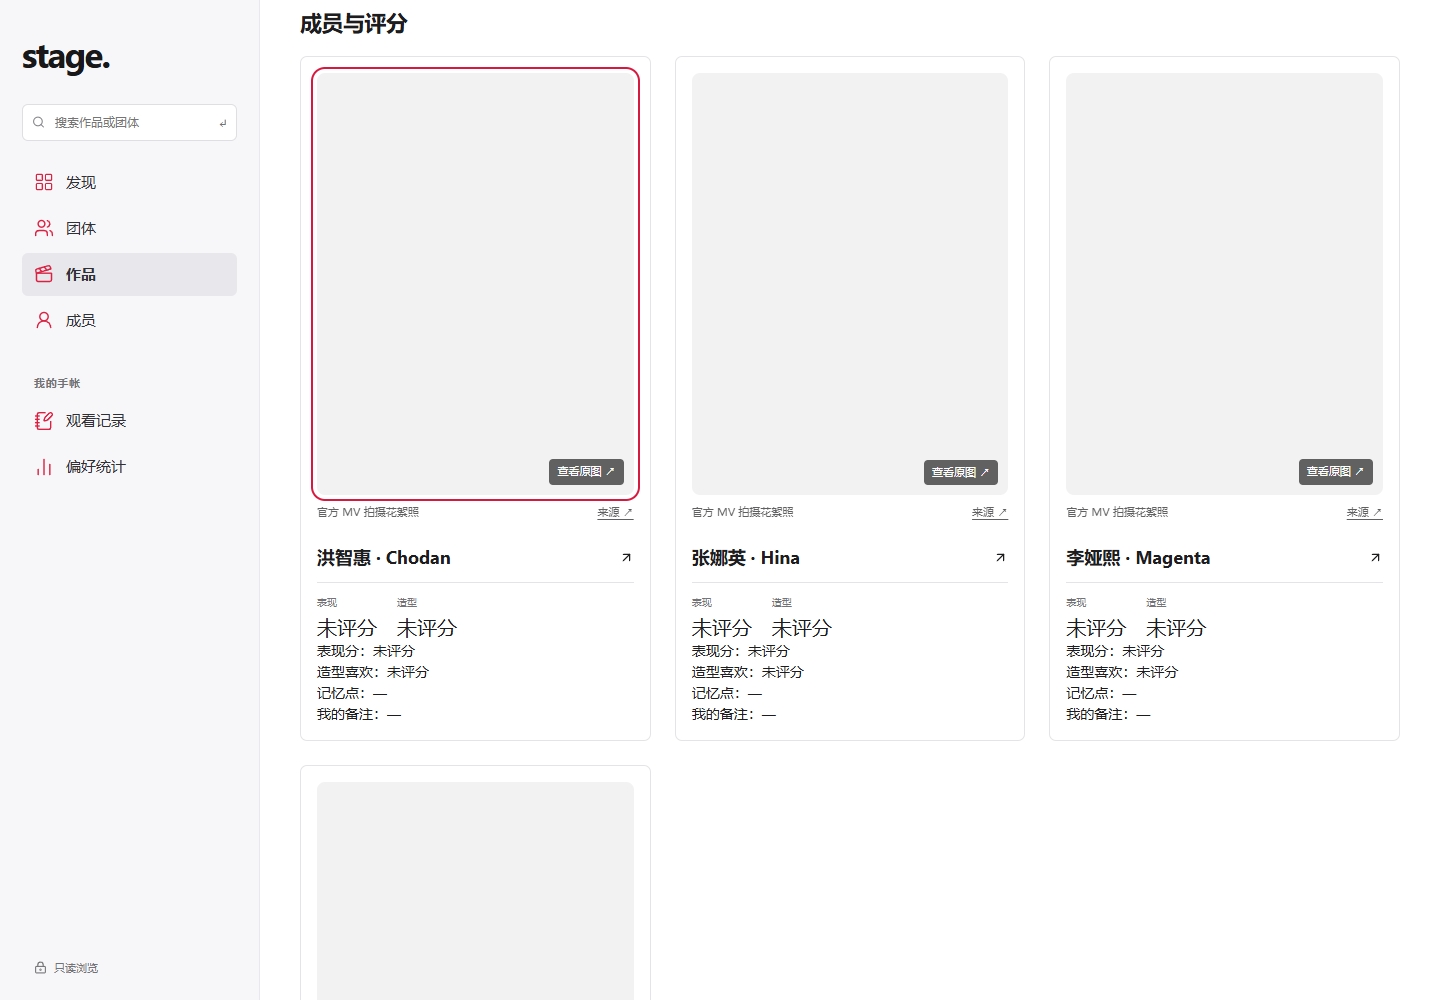
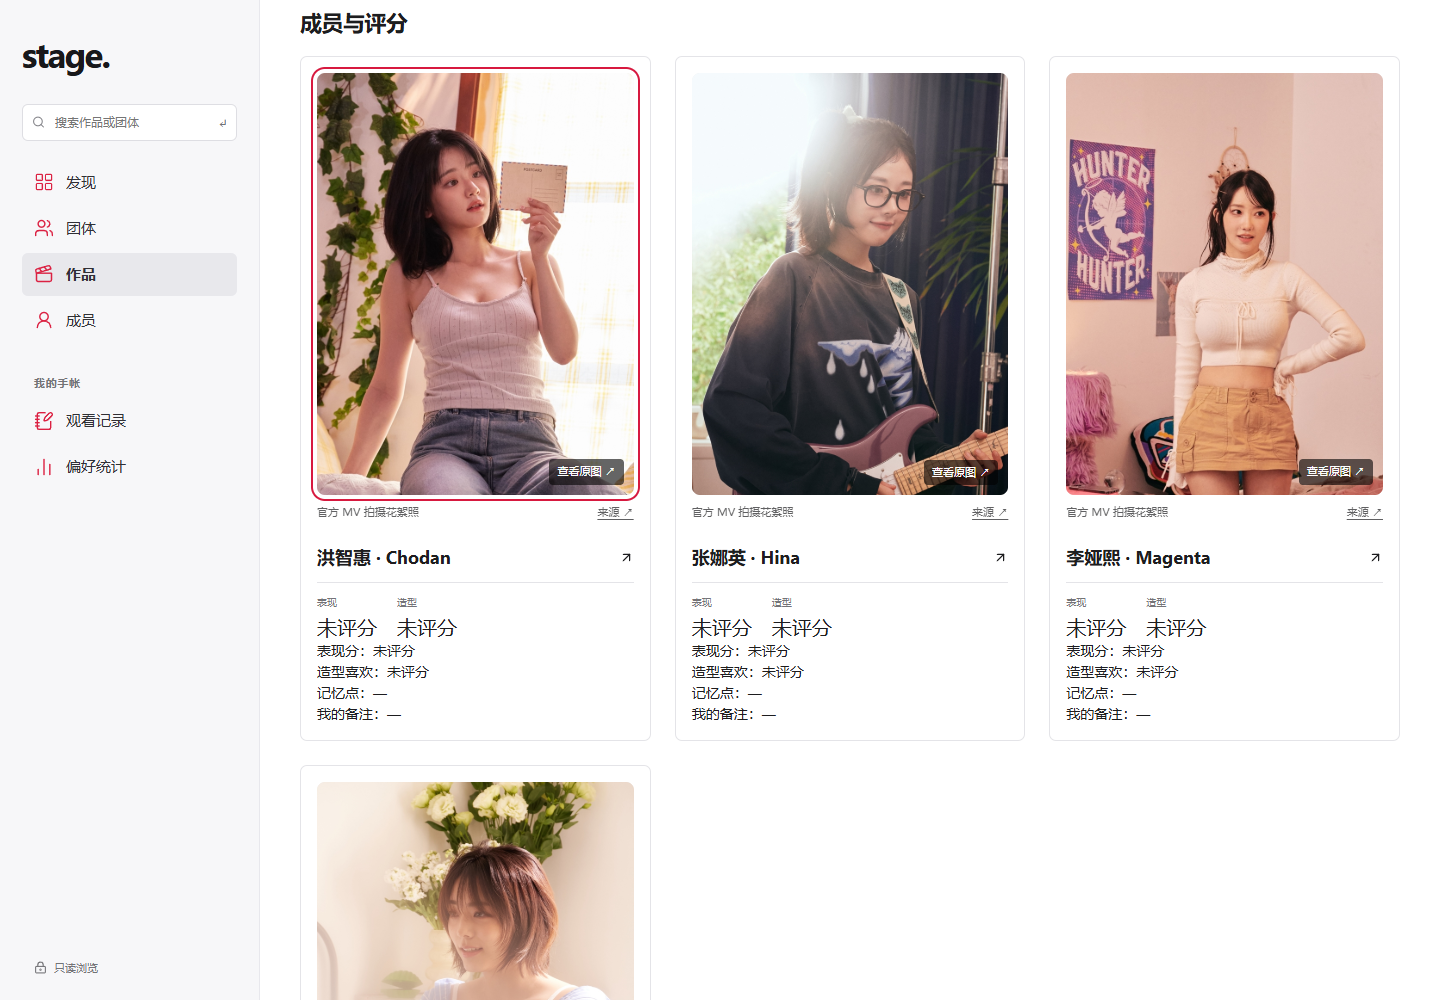
Refresh fully loaded online image evidence

Changed region(s): [[0.4688, 0.062, 0.9688, 0.496], [0.2188, 0.062, 0.4375, 0.496], [0.2188, 0.775, 0.4375, 1.0]]

diff --git a/docs/codex/worklogs/20261026-data-gap-followup.md b/docs/codex/worklogs/20261026-data-gap-followup.md
@@ -2,6 +2,8 @@
 
 最终实现及v9验证提交：`693180a4900776b30acfd41e3058b79615548246`，已推送；draft [PR #39](https://github.com/KAtOReNA7/idol/pull/39)，base为`codex/statistics-mv-identity-completion`。未合并main。完整报告与v9表格/CSV/截图/验证日志均已上传GitHub；后续从本分支最新HEAD继续。
 
+截图收尾复查：初次原图流程后的QWER截图早于懒加载图片解码，显示灰色占位。补充IZ*ONE/QWER/Geenius三组“卡片完整解码→原图完整解码→关闭→再次确认卡片解码”流程后重拍并实际查看，三组照片显示正常，已替换报告中的QWER截图。生产代码没有因此变化；新证据`reports/20261026-v9/online-visual-qa.json`。
+
 - 用户于2026-10-26确认目前进度，要求全部发布到指定正式站点、完整报告上传GitHub并继续任务。
 - 分支`codex/data-gap-followup`，冻结基线`0801fc366cb385375f6d68e2495a73ee07c13831`。开工工作树干净，fetch确认远端同HEAD。
 - Sites核对指定站点已是v8：源`28ce1d204bd2500a8f1a459e00531c795c8ef348`，部署`appgdep_6ade34f6f4a88191a422f47f764017db`。当前仅owner访问，保留权限；不重复发布相同版本。v8含上轮全部网页修改；保存逻辑源代码已有合成测试，静态站仍只读，不将发布解释为已实测真实保存。
